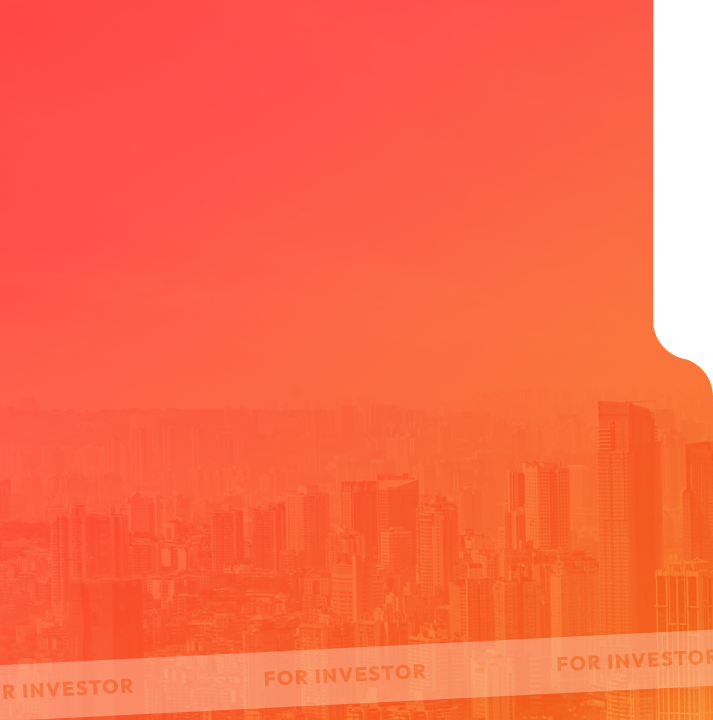
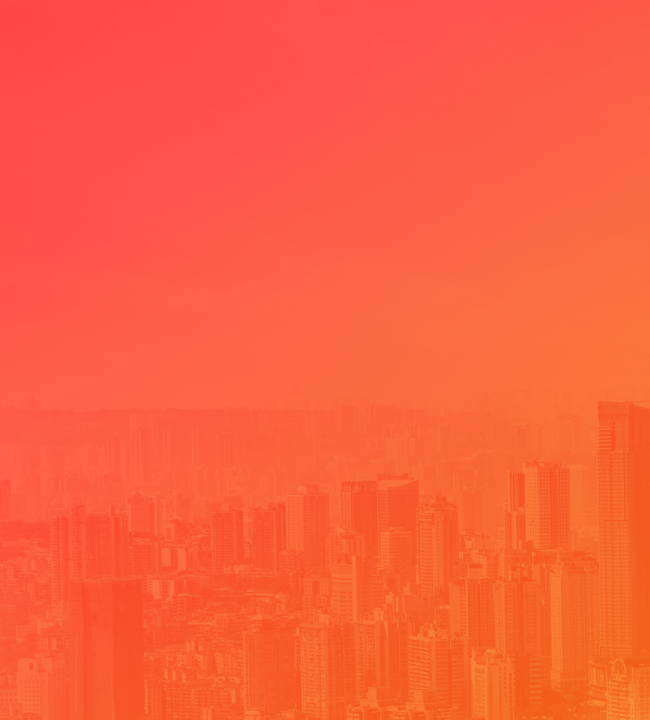
Sendgrid and UI responsive fixes

diff --git a/src/pages/Home.js b/src/pages/Home.js
@@ -459,6 +459,7 @@ const Home = () => {
                     </div>
                     <div className='md:col-span-6 col-span-12 mr-[-60px]'>
                         <div className='relative lg:min-h-[600px]'>
+                        
                             <img alt="" src={homeInvest} className='h-full w-full relative z-[9]' />
                             <div className='absolute left-[40%] top-[50%] translate-y-[-50%] translate-x-[-40%] z-[99] max-w-[60%]'>
                                 <span className='block text-[#fff] text-[28px] leading-[32px] md:text-[30px] md:leading-[34px] lg:text-[55px] outfit-bold lg:leading-[66px]'>
@@ -467,12 +468,17 @@ const Home = () => {
                                 <span className='block mt-4 md:mt-8 text-[#fff] text-[17px] leading-[24px] outfit-regular'>
                                     Buy a fraction of a portfolio of properties, earn instant real-time yields, and trade easily in our highly liquid marketplace.
                                 </span>
-                                <img alt="" className='lg:mt-24 mt-8' src={iconArrowRight} />
+                                <img alt="" className='lg:mt-24 mt-5 md:w-auto w-[25px]' src={iconArrowRight} />
+                            </div>
+                            <div className='bg-[#fdccb2]'>
+                                <div className="ticker-content py-2 outfit-bold">
+                                    <span className='w-[50px] px-10 inline-block'></span> FOR INVESTOR <span className='w-[50px] px-10 inline-block'></span> FOR INVESTOR <span className='w-[50px] px-10 inline-block'></span> FOR INVESTOR <span className='w-[50px] px-10 inline-block'></span> FOR INVESTOR <span className='w-[50px] px-10 inline-block'></span> FOR INVESTOR <span className='w-[50px] px-10 inline-block'></span> FOR INVESTOR 
+                                </div>
                             </div>
                         </div>
                     </div>
                     <div className='md:col-span-6 col-span-12 lg:ml-[-15px]'>
-                        <div className='relative lg:min-h-[612px] md:min-h-[400px]'>
+                        <div className='relative lg:min-h-[612px] md:min-h-[600px]'>
                             <img alt="" src={homeLive} className='h-full w-full relative z-[-1]' />
                             <div className='absolute left-[40%] top-[50%] translate-y-[-50%] translate-x-[-35%] z-[1] max-w-[60%]'>
                                 <span className='block text-[#fff] text-[28px] leading-[32px] md:text-[30px] md:leading-[34px] lg:text-[55px] outfit-bold lg:leading-[66px]'>
@@ -481,7 +487,12 @@ const Home = () => {
                                 <span className='block mt-4 md:mt-8 text-[#fff] text-[17px] leading-[24px] outfit-regular'>
                                     Live flexibly anywhere in the world with our pioneering home subscription service and seamless access to global rental and home ownership opportunities.
                                 </span>
-                                <img alt="" className='lg:mt-24 mt-8' src={iconArrowRight} />
+                                <img alt="" className='lg:mt-24 mt-5 md:w-auto w-[25px]' src={iconArrowRight} />
+                            </div>
+                            <div className='bg-[#bdd8e0]'>
+                                <div className="ticker-content2 py-2 outfit-bold">
+                                    <span className='w-[50px] px-10 inline-block'></span> FOR CONSUMER <span className='w-[50px] px-10 inline-block'></span> FOR CONSUMER <span className='w-[50px] px-10 inline-block'></span> FOR CONSUMER <span className='w-[50px] px-10 inline-block'></span> FOR CONSUMER <span className='w-[50px] px-10 inline-block'></span> FOR CONSUMER <span className='w-[50px] px-10 inline-block'></span> FOR CONSUMER 
+                                </div>
                             </div>
                         </div>
                     </div>
@@ -754,22 +765,22 @@ const Home = () => {
                         }}
                     >
                         <div className='item'>
-                            <div className='max-w-[80%] mx-auto relative md:h-[380px]'>
-                                <img alt="" className='absolute z-[-1] right-[-20px]' src={pillar1}/>
+                            <div className='max-w-[80%] mx-auto relative md:h-[380px] md:pl-0 px-5'>
+                                <img alt="" className='absolute z-[-1] md:right-[-20px] left-0 md:w-auto w-full' src={pillar1}/>
                                 <h5 className='md:text-[42px] text-[36px] leading-[38px] outfit-bold md:pt-16 pt-8 md:leading-[48px] mb-6 block'>Live <span className='block'>seamless</span></h5>
                                 <p className='text-[#17271F] text-[16px] leading-[24px] md:w-[88%] ml-auto md:mb-0 mb-5'>Our streamlined procedures make these processes transparent, flexible, secure, and affordable. We believe that simplicity is the key to enjoying life’s greatest pleasures.</p>
                             </div>
                         </div>
                         <div className='item'>
-                            <div className='max-w-[80%] mx-auto relative md:h-[380px]'>
-                                <img alt="" className='absolute z-[-1] right-[-20px]' src={pillar2}/>
+                            <div className='max-w-[80%] mx-auto relative md:h-[380px] md:pl-0 px-5'>
+                                <img alt="" className='absolute z-[-1] md:right-[-20px] left-0 md:w-auto w-full' src={pillar2}/>
                                 <h5 className='md:text-[42px] text-[36px] leading-[38px] outfit-bold md:pt-16 pt-8 md:leading-[48px] mb-6 block'>Live <span className='block'>accessible</span></h5>
                                 <p className='text-[#17271F] text-[16px] leading-[24px] md:w-[88%] ml-auto md:mb-0 mb-5'>Our goal is to provide choices that empower you to shape your living situation according to your desires, whether you prefer traditional home ownership or flexible rental arrangements.</p>
                             </div>
                         </div>
                         <div className='item'>
-                            <div className='max-w-[80%] mx-auto relative md:h-[380px]'>
-                                <img alt="" className='absolute z-[-1] right-[-20px]' src={pillar3}/>
+                            <div className='max-w-[80%] mx-auto relative md:h-[380px] md:pl-0 px-5'>
+                                <img alt="" className='absolute z-[-1] md:right-[-20px] left-0 md:w-auto w-full' src={pillar3}/>
                                 <h5 className='md:text-[42px] text-[36px] leading-[38px] outfit-bold md:pt-16 pt-8 md:leading-[48px] mb-6 block'>Live <span className='block'>borderless</span></h5>
                                 <p className='text-[#17271F] text-[16px] leading-[24px] md:w-[88%] ml-auto md:mb-0 mb-5'>Our services and solutions support a modern lifestyle, allowing you to seamlessly transition between different aspects of your life, no matter where you are.</p>
                             </div>

diff --git a/src/pages/Contact.js b/src/pages/Contact.js
@@ -1,0 +1,121 @@
+import React, { useState } from 'react';
+import Topbar from '../components/Topbar';
+import Header from '../components/Header';
+import Footer from '../components/Footer';
+import 'owl.carousel/dist/assets/owl.carousel.min.css';
+import 'owl.carousel/dist/assets/owl.theme.default.min.css';
+import FaqBanner from '../assets/images/faq-hero.png';
+import axios from 'axios';
+
+
+const Contact = () => {
+
+    const [formData, setFormData] = useState({
+        name: '',
+        email: '',
+        phone: '',
+        message: ''
+      });
+    
+      const handleChange = (e) => {
+        setFormData({ ...formData, [e.target.name]: e.target.value });
+      };
+    
+      const handleSubmit = async (e) => {
+        e.preventDefault();
+    
+        // Send form data to SendGrid
+        await sendFormDataToSendGrid(formData);
+    
+        // Reset form after submission
+        setFormData({ name: '', email: '', phone: '', message: '' });
+      };
+
+      const sendFormDataToSendGrid = async (formData) => {
+        try {
+          const response = await axios.post('https://api.sendgrid.com/v3/marketing/contacts', 
+          {
+            "contacts": [
+              {
+                "email": formData.email,
+                "first_name": formData.name,
+                "phone_number": formData.phone,
+                "custom_fields": {
+                  "e1_T": formData.message // Assuming 'e1_T' is a custom field ID for message
+                }
+              }
+            ]
+          },
+          {
+            headers: {
+              'Authorization': `Bearer YOUR_SENDGRID_API_KEY`,
+              'Content-Type': 'application/json'
+            }
+          });
+      
+          console.log('Form data sent successfully:', response.data);
+        } catch (error) {
+          console.error('Error sending form data:', error);
+        }
+      };
+
+  return (
+    <div>
+      <Topbar/>
+      <Header/>
+      <div>
+        <div className='max-w-7xl mx-auto md:mt-5 lg:px-0 px-3'>
+          <div className='bg-no-repeat bg-cover md:rounded-[50px] p-10 md:m-0 rounded-[12px] relative' style={{ backgroundImage: `url(${FaqBanner})` }}>
+            <div className='grid grid-cols-12 items-center'>
+              <div className='col-span-12'>
+                <div className='h-[280px] flex flex-col items-start justify-center'>
+                  <span className='text-[#fff] md:text-[55px] text-[38px] leading-[42px] md:leading-[60px] outfit-bold block text-center'>Contact Us</span>
+                  <p className='text-[#fff] text-[18px] leading-[26px] mt-3 max-w-[500px]'>Discover answers to your questions about combining real estate and cryptocurrency on our innovative platform.</p>
+                </div>
+              </div>
+            </div>
+          </div>
+        </div>
+      </div>
+      <div className='md:py-16 py-10'>
+        <div className='max-w-[650px] mx-auto'>
+            <div className='grid grid-cols-12'>
+                <div className='col-span-12'>
+                    <div className='bg-[#F6F6F2] border-[1px] border-[#e2e2e2] md:p-8 rounded-[10px]'>
+                        <form onSubmit={handleSubmit}>
+                            <div className='grid grid-cols-12'>
+                                <div className='col-span-12 mb-3'>
+                                    <span className='orange-text3 text-[25px] md:leading-[40px] leading-[30px] mb-2 md:text-[35px] outfit-bold block'>Get In Touch</span>
+                                </div>
+                                <div className='col-span-12 mb-3'>
+                                    <label htmlFor="name">Name</label>
+                                    <input type="text" className='w-full bg-[#e2e2e2] border-none' placeholder="Enter Full Name" id="name" name="name" value={formData.name} onChange={handleChange} required />
+                                </div>
+                                <div className='col-span-12 mb-3'>
+                                    <label htmlFor="email">Email</label>
+                                    <input type="email" className='w-full bg-[#e2e2e2] border-none' placeholder="Enter Email Address" id="email" name="email" value={formData.email} onChange={handleChange} required />
+                                </div>
+                                <div className='col-span-12 mb-3'>
+                                    <label htmlFor="phone">Phone Number</label>
+                                    <input type="tel" className='w-full bg-[#e2e2e2] border-none' placeholder="Enter Phone Number" id="phone" name="phone" value={formData.phone} onChange={handleChange} required />
+                                </div>
+                                <div className='col-span-12 mb-3'>
+                                    <label htmlFor="message">Message</label>
+                                    <textarea className='w-full bg-[#e2e2e2] border-none' placeholder="Enter Message" id="message" name="message" value={formData.message} onChange={handleChange} required />
+                                </div>
+                                <div className='col-span-12'>
+                                    <button className='text-[#fff] bg-[#FF4A3F] border-[2px] border-[#FF4A3F] text-[16px] outfit-semibold md:px-6 py-2 rounded-[25px]' type="submit">Subscribe Now</button>
+                                </div>
+                            </div>
+                        </form>
+                    </div>
+                </div>
+            </div>
+        </div>
+      </div>
+        <Footer/>
+    </div>
+  );
+};
+
+export default Contact;

diff --git a/src/pages/backupfaq.js b/src/pages/backupfaq.js
@@ -1,22 +1,22 @@
-import React, { useState, useEffect, useRef } from 'react';
+import React, { useState, useEffect } from 'react';
 import FaqBanner from '../assets/images/faq-hero.png';
 import Topbar from '../components/Topbar';
 import Header from '../components/Header';
 import Footer from '../components/Footer';
-import { Tabs, Accordion } from "flowbite-react";
+import { Tabs } from "flowbite-react";
+import { Accordion } from "flowbite-react";
 
 const Faq = () => {
   const [sections, setSections] = useState([]);
   const [articles, setArticles] = useState([]);
   const [activeSectionId, setActiveSectionId] = useState(null);
-  const tabsRef = useRef(null);
 
   // Fetch sections
   useEffect(() => {
-    fetch('https://thereallifestyle.zendesk.com/api/v2/help_center/categories/36562854739481/sections.json', {
+    fetch('https://wepsolhelp.zendesk.com/api/v2/help_center/categories/27719012849297/sections.json', {
       method: 'GET',
       headers: {
-        'Authorization': 'Basic ' + btoa('yenray.ng@trlco.world/token:O4N6Fysz582712RvT2Aux2gvbdabCExJOoh966nK')
+        'Authorization': 'Basic ' + btoa('shawnmichael78690@gmail.com/token:SBCY8zZwqIjrd2NR6JCURQbf8POZFO4diRxb5u2w')
       }
     })
     .then(response => response.json())
@@ -35,10 +35,10 @@ const Faq = () => {
   useEffect(() => {
     if (activeSectionId) {
       console.log(`Fetching articles for section ID: ${activeSectionId}`);
-      fetch(`https://thereallifestyle.zendesk.com/api/v2/help_center/sections/${activeSectionId}/articles.json`, {
+      fetch(`https://wepsolhelp.zendesk.com/api/v2/help_center/sections/${activeSectionId}/articles.json`, {
         method: 'GET',
         headers: {
-          'Authorization': 'Basic ' + btoa('yenray.ng@trlco.world/token:O4N6Fysz582712RvT2Aux2gvbdabCExJOoh966nK')
+          'Authorization': 'Basic ' + btoa('shawnmichael78690@gmail.com/token:SBCY8zZwqIjrd2NR6JCURQbf8POZFO4diRxb5u2w')
         }
       })
       .then(response => response.json())
@@ -51,11 +51,9 @@ const Faq = () => {
   }, [activeSectionId]);
 
   // Handle tab change
-  const handleTabChange = (index) => {
-    console.log(`Tab clicked: ${sections[index]?.id}`);
-    if (sections[index]) {
-      setActiveSectionId(sections[index].id);
-    }
+  const handleTabChange = (tabId) => {
+    console.log(`Tab changed to: ${tabId}`);
+    setActiveSectionId(tabId);
   };
 
   return (
@@ -83,13 +81,8 @@ const Faq = () => {
               <span className='text-[#17271F] md:text-[32px] text-[26px] md:leading-[36px] leading-[29px] md:mb-0 mb-3 outfit-semibold block md:mt-0 mt-5'>Explore topics</span>
             </div>
             <div className='col-span-12 mt-5'>
-              <Tabs
-                aria-label="Pills"
-                variant="pills"
-                ref={tabsRef}
-                onActiveTabChange={(tab) => handleTabChange(tab)}
-              >
-                {sections.map((section, index) => (
+              <Tabs aria-label="Pills" variant="pills" className='faq-accordion' onChange={(tabId) => handleTabChange(tabId)}>
+                {sections.map(section => (
                   <Tabs.Item
                     key={section.id}
                     title={section.name}

diff --git a/src/index.css b/src/index.css
@@ -185,6 +185,7 @@ body {
 }
 button.flex.w-full.items-center.justify-between.p-5.text-left.font-medium.first\:rounded-t-lg.last\:rounded-b-lg.hover\:bg-gray-100.focus\:ring-4.focus\:ring-gray-200.dark\:hover\:bg-gray-800.dark\:focus\:ring-gray-800.bg-gray-100.text-gray-900.dark\:bg-gray-800.dark\:text-white {
   background: none !important;
+  padding: 10px;
 }
 .divide-y.divide-gray-200.border-gray-200.dark\:divide-gray-700.dark\:border-gray-700.rounded-lg.border {
   border: none !important;
@@ -192,7 +193,9 @@ button.flex.w-full.items-center.justify-between.p-5.text-left.font-medium.first\
 button.flex.w-full.items-center.justify-between.p-5.text-left.font-medium.text-gray-500.first\:rounded-t-lg.last\:rounded-b-lg.dark\:text-gray-400.hover\:bg-gray-100.focus\:ring-4.focus\:ring-gray-200.dark\:hover\:bg-gray-800.dark\:focus\:ring-gray-800 {
   margin-top: 15px;
   margin-bottom: 15px;
-  color: #cfcccc;
+  color: #000;
+  padding: 10px;
+  border-bottom: 1px solid #e2e2e2;
 }
 button:focus{
   outline: none;
@@ -233,6 +236,12 @@ button:focus{
 [data-testid="flowbite-accordion-content"] {
   padding-left: 10px;
   padding-right: 10px;
+  padding-top: 5px
+}
+
+[data-testid="flowbite-accordion"] p {
+  font-size: 15px;
+  margin-top: 0px;
 }
 
 button.flex.w-full.items-center.justify-between.p-5.text-left.font-medium.first\:rounded-t-lg.last\:rounded-b-lg.hover\:bg-gray-100.focus\:ring-4.focus\:ring-gray-200.dark\:hover\:bg-gray-800.dark\:focus\:ring-gray-800.bg-gray-100.text-gray-900.dark\:bg-gray-800.dark\:text-white h2 {
@@ -500,7 +509,7 @@ nav button span.sr-only {
 
 .ticker-content {
   display: inline-block;
-  background: #FDC2A3;
+  background: #fdccb2;
   box-shadow: 0 0 black;
   animation: ticker 35s linear infinite;
   font-size: 20px;
@@ -511,7 +520,7 @@ nav button span.sr-only {
 
 .ticker-content2 {
   display: inline-block;
-  background: #8AB6C4;
+  background: #bdd8e0;
   box-shadow: 0 0 black;
   animation: ticker 35s linear infinite;
   font-size: 20px;

diff --git a/src/App.js b/src/App.js
@@ -13,6 +13,7 @@ import Partners from './pages/Partners';
 import RoadMap from './pages/Roadmap';
 import NotFound from './pages/NotFound';
 import Blog from './pages/Blog';
+import Contact from './pages/Contact';
 
 
 
@@ -40,6 +41,7 @@ function App() {
           <Route path="/partners" element={<Partners />} />
           <Route path="/roadmap" element={<RoadMap />} />
           <Route path="/blog" element={<Blog />} />
+          <Route path="/contact" element={<Contact />} />
           <Route path="*" element={<NotFound />} />
         </Routes>
       </div>

diff --git a/src/components/HeaderWhite.js b/src/components/HeaderWhite.js
@@ -173,6 +173,11 @@ const HeaderWhite = () => {
                                 </div>
 
                             </div>
+                            <a className="px-1" href="/contact">
+                                    <span className="outfit-medium text-[#FFFFFF] transitiom-all ease-in-out duration-300 lg:text-[16px] text-[14px]">
+                                        Contact
+                                    </span>
+                                </a>
                             
 
                         </div>

diff --git a/src/components/Header.js b/src/components/Header.js
@@ -174,6 +174,11 @@ const Header = () => {
                                 </div>
 
                             </div>
+                            <a className="px-1" href="/contact">
+                                    <span className="outfit-medium text-[#000000] transitiom-all ease-in-out duration-300 lg:text-[16px] text-[14px]">
+                                        Contact
+                                    </span>
+                                </a>
                             
 
                         </div>

diff --git a/public/index.html b/public/index.html
@@ -62,5 +62,6 @@
       To create a production bundle, use `npm run build` or `yarn build`.
     -->
     <script src="https://code.jquery.com/jquery-3.7.1.slim.min.js" integrity="sha256-kmHvs0B+OpCW5GVHUNjv9rOmY0IvSIRcf7zGUDTDQM8=" crossorigin="anonymous"></script>
+    <script id="ze-snippet" src="https://static.zdassets.com/ekr/snippet.js?key=3519a9e73934e03a524da51b71c3a8661d8ff7362252551ebd0df1b7652d4abc"></script>
   </body>
 </html>
